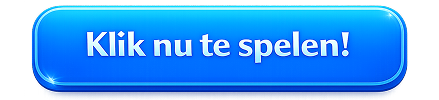
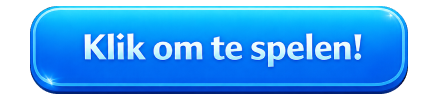
commit

Changed region(s): [[0.0592, 0.03, 0.9476, 0.99], [0.1777, 0.3, 0.8292, 0.69]]

diff --git a/2026/spaecopack/index.html b/2026/spaecopack/index.html
@@ -142,7 +142,7 @@
     window.trackingPath = "assets";
     window.trackingType =
       "https://staging-dmp-producer.iion.io/tracker/impressions?platform=GAM&campaign_id=%ebuy!&publisher_id=%epid!&creative_id=%ecid!&maid=%%ADVERTISING_IDENTIFIER_PLAIN%%&page_url=%%SITE%%&height=%%HEIGHT%%&width=%%WIDTH%%&video_min_duration=%%VIDEO_DURATION%%&gdpr=${GDPR}&gdpr_consent=${GDPR_CONSENT_XXXX}&demand_id=%eadv!&line_item=%eaid!&event_name=";
-    window.setTracker = "%%CLICK_URL_UNESC%%";
+    window.setTracker = "";//"%%CLICK_URL_UNESC%%";
     window.landingPageUrl =
       window.setTracker + "https://spa.nl/producten/spa-reine-eco-pack";
   </script>